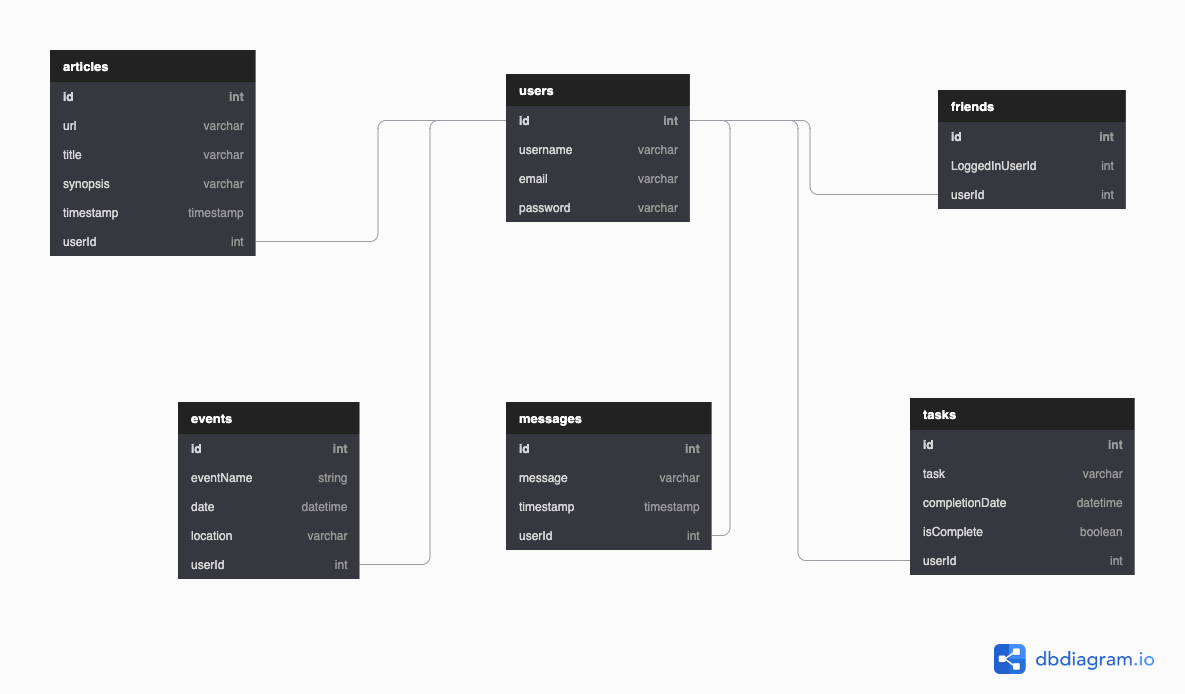
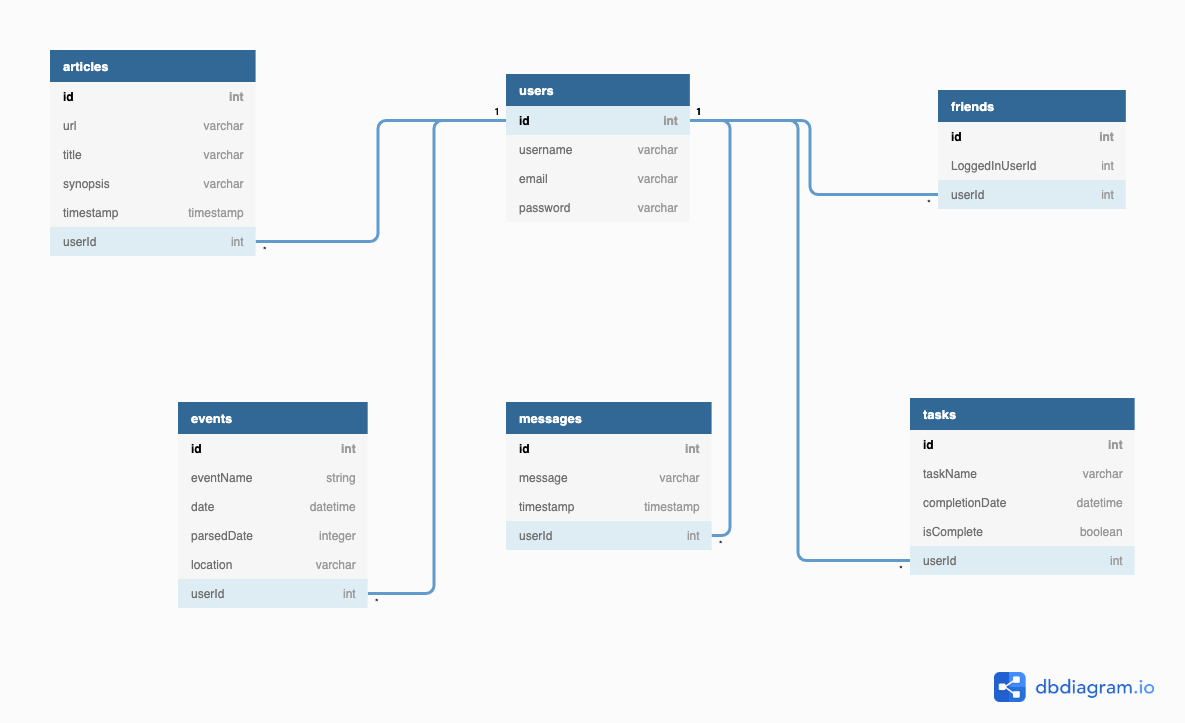
updated ERD image in readme

Changed region(s): [[0.1249, 0.0908, 0.9679, 0.8473], [0.0312, 0.0605, 0.3122, 0.3934], [0.8743, 0.938, 0.9679, 0.9683]]

diff --git a/README.md b/README.md
@@ -12,7 +12,7 @@
 
 ## ERD Relationships
 
-![nutshell ERD](./nutshellERD.png)
+![nutshell ERD](./Nutshell_ERD.png)
 
 ## Using the App
 
